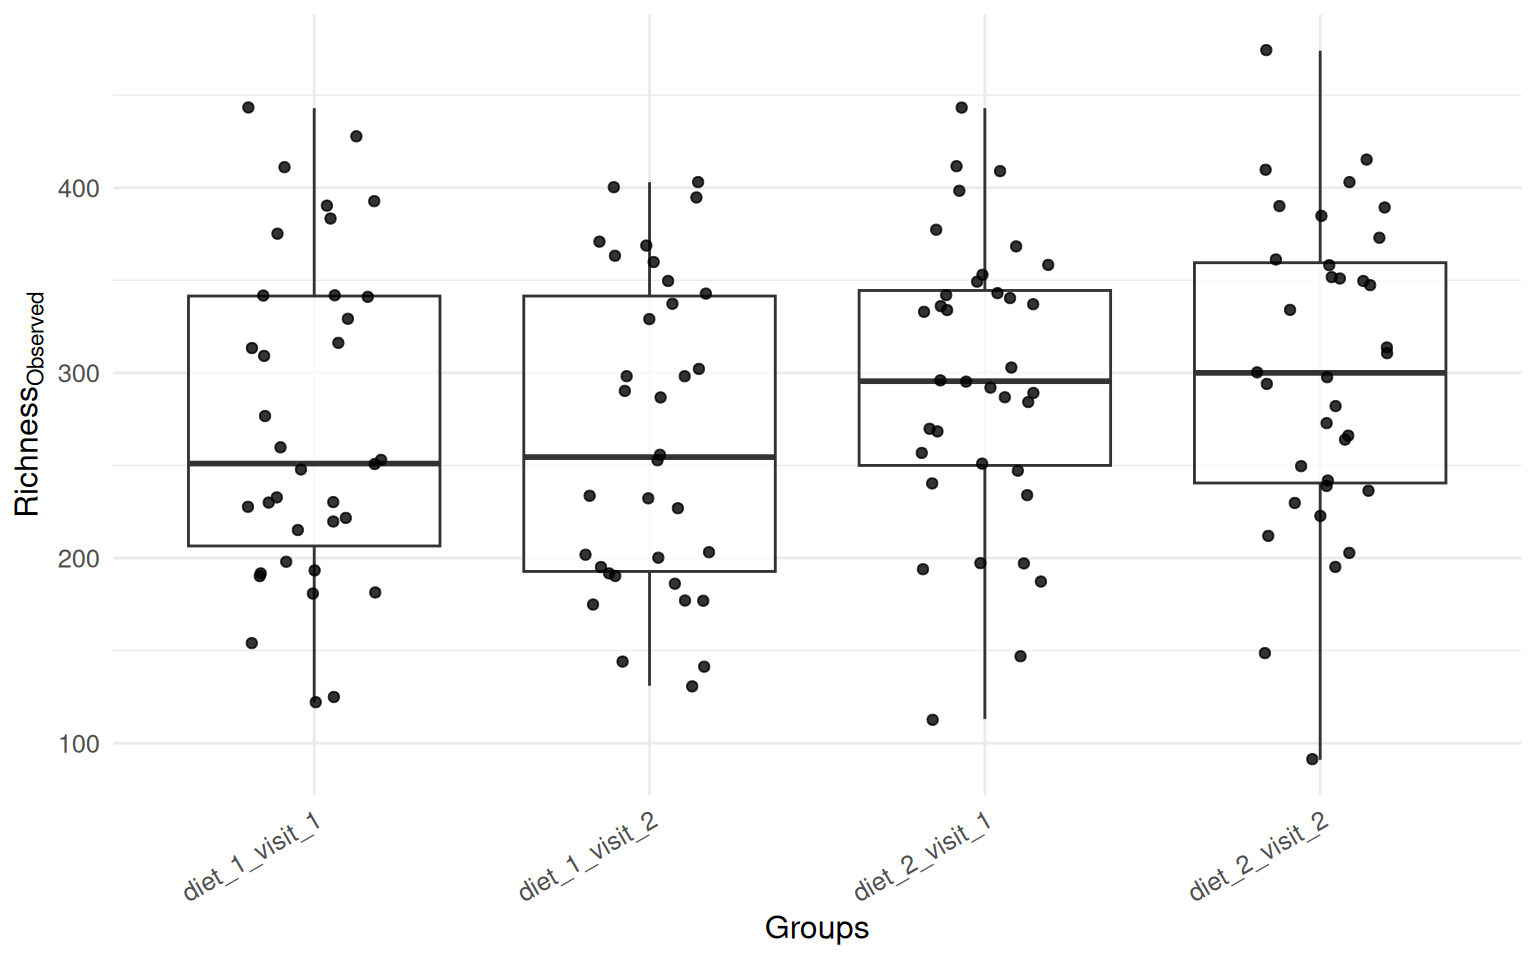
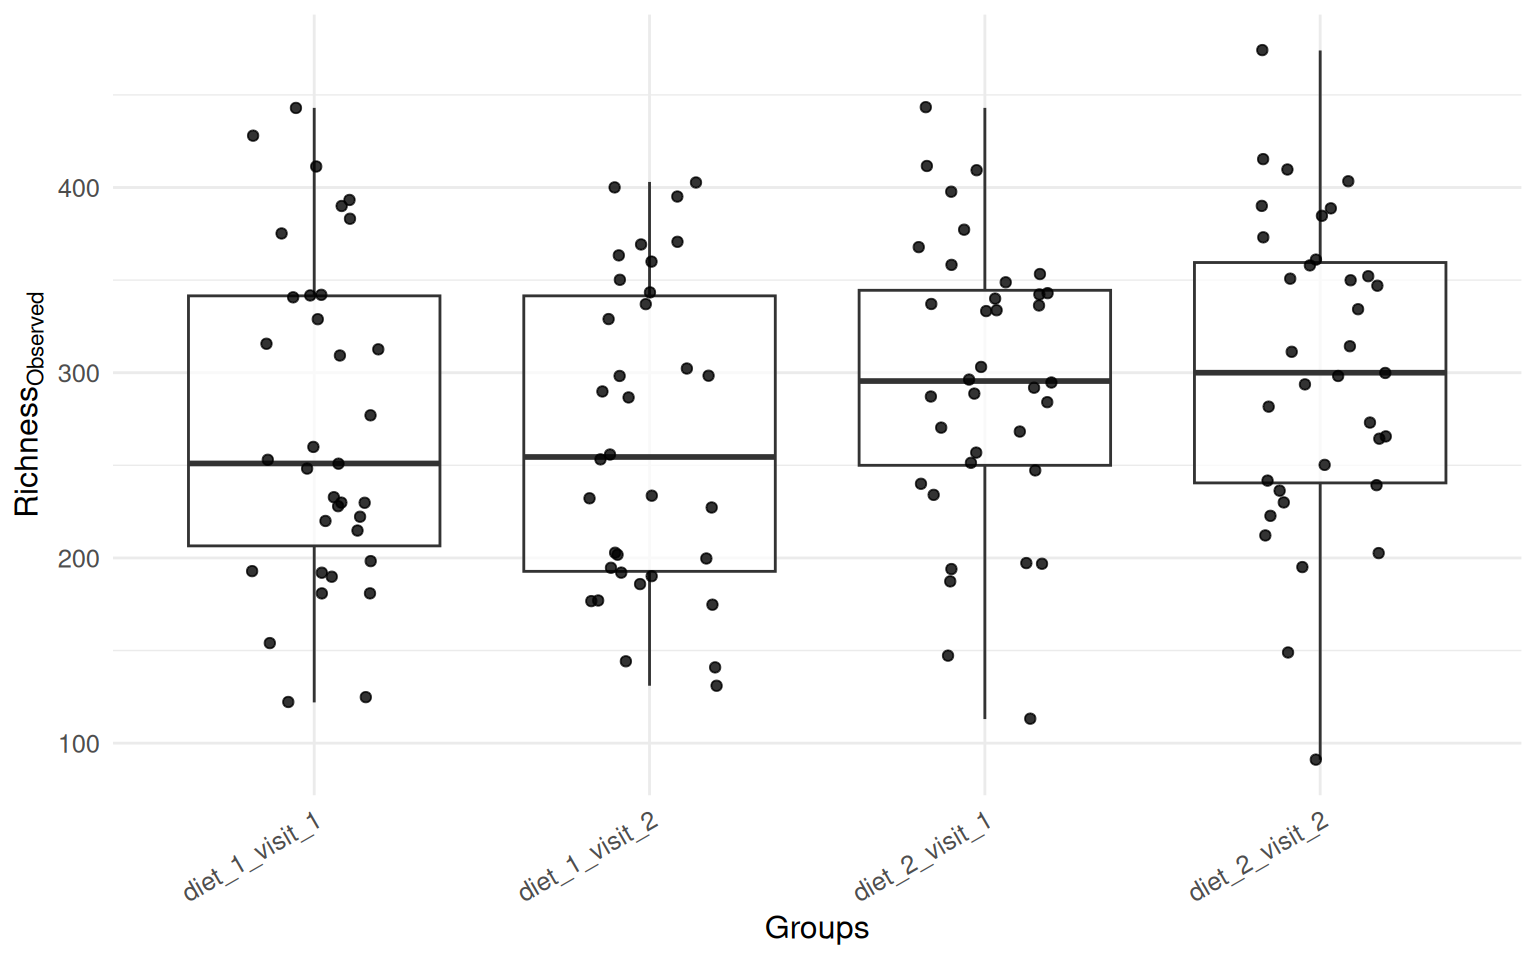
remove ogb mentions xept in proj name

diff --git a/output/Alpha_Diversity.html b/output/Alpha_Diversity.html
@@ -105,7 +105,7 @@ pre > code.sourceCode > span > a:first-child::before { text-decoration: underlin
 
 <section id="introduction" class="level2">
 <h2 class="anchored" data-anchor-id="introduction">Introduction</h2>
-<p>This document reports on the OGB microbiota project results of alpha diversity across different diets and visits.</p>
+<p>This document reports on a microbiota project results of alpha diversity across different diets and visits.</p>
 </section>
 <section id="setup" class="level2">
 <h2 class="anchored" data-anchor-id="setup">Setup</h2>

diff --git a/output/Beta_Diversity.html b/output/Beta_Diversity.html
@@ -98,7 +98,7 @@ pre > code.sourceCode > span > a:first-child::before { text-decoration: underlin
 
 <section id="community-dissimilarity" class="level2">
 <h2 class="anchored" data-anchor-id="community-dissimilarity">Community dissimilarity</h2>
-<p>This document presents the results of the OGB microbiota project, focusing on beta diversity analysis. Specifically, we employed Principal Coordinates Analysis (PCoA) using the Bray-Curtis dissimilarity index to assess community dissimilarity among microbiota samples.</p>
+<p>This document presents the results of a microbiota project, focusing on beta diversity analysis. Specifically, we employed Principal Coordinates Analysis (PCoA) using the Bray-Curtis dissimilarity index to assess community dissimilarity among microbiota samples.</p>
 <div class="cell">
 <div class="sourceCode cell-code" id="cb1"><pre class="sourceCode r code-with-copy"><code class="sourceCode r"><span id="cb1-1"><a href="#cb1-1" aria-hidden="true" tabindex="-1"></a><span class="co"># Load libraries</span></span>
 <span id="cb1-2"><a href="#cb1-2" aria-hidden="true" tabindex="-1"></a><span class="fu">library</span>(tidyverse)     </span>

diff --git a/output/Community_composition.html b/output/Community_composition.html
@@ -105,7 +105,7 @@ pre > code.sourceCode > span > a:first-child::before { text-decoration: underlin
 
 <section id="introduction" class="level2">
 <h2 class="anchored" data-anchor-id="introduction">Introduction</h2>
-<p>This document reports on the OGB microbiota project results of community composition across different diets and visits.</p>
+<p>This document reports on a microbiota project results of community composition across different diets and visits.</p>
 </section>
 <section id="setup" class="level2">
 <h2 class="anchored" data-anchor-id="setup">Setup</h2>